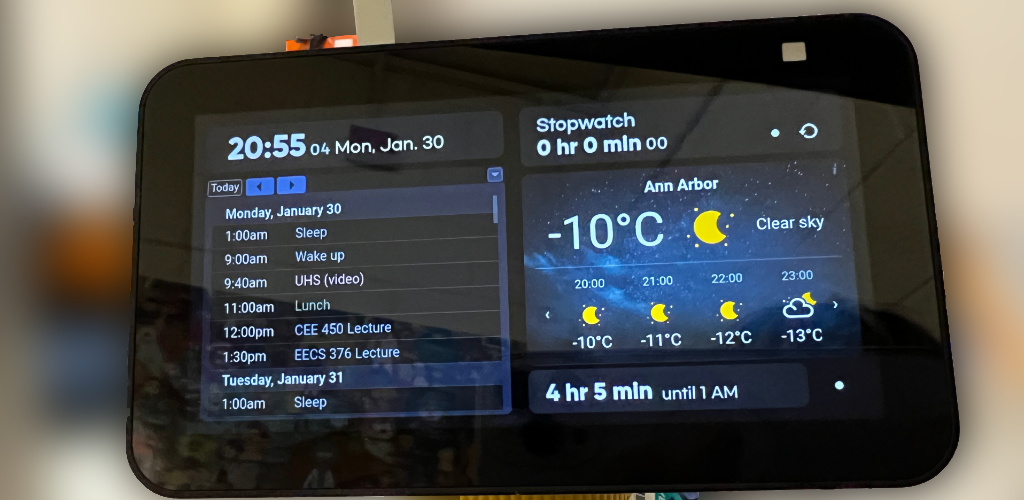
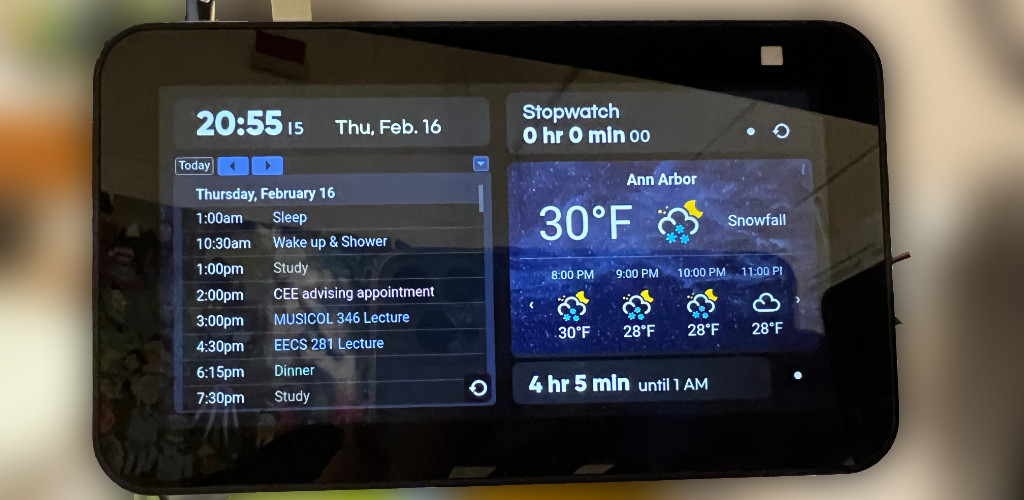
Update dashboard images

diff --git a/popups/slideshows/ss-dashboard.html b/popups/slideshows/ss-dashboard.html
@@ -1,0 +1,85 @@
+<!DOCTYPE html>
+<!--
+
+
+TASKS FOR SLIDESHOW
+- Change image/video source links
+- Change URL to the popup image
+   ㄴ Delete popup URL for videos
+- Change number of images, if necessary
+   ㄴ In this case, change the number of dots
+- Change captions
+
+WHAT IS THIS
+This is a template file for slideshows.
+Slideshows are meant to showcase more information about the project.
+
+HOW TO EMBED SLIDESHOWS
+<div class="slideshow-box">
+    <iframe class="slideshow" src="slideshows/ss-template.html" marginheight="0" marginwidth="0"></iframe>
+</div>
+
+CONTENT UPLOAD GUIDELINES
+- Aspect ratio should be 16:9
+   ㄴ 1920x1080, 1600x900, 1280x720, 960x540, 720x405
+- Total file size for the entire slideshow should be 1.5 MB or less.
+- Videos MUST be embedded from YouTube to reduce disk usage.
+   ㄴ When embedding videos, don't forget to do height="304".
+- The number of images/videos should not exceed 5.
+
+This slideshow template was created by Seung-Gu Lee.
+
+-->
+<html>
+    <head>
+        <title>Slideshow</title>
+        <meta charset="UTF-8">
+        <meta name="viewport" content="width=device-width, initial-scale=1.0">
+        <link rel="stylesheet" type="text/css" href="slideshow.css"/>
+        
+    </head>
+    <body>
+        <!-- Slideshow container -->
+        <div class="slideshow-container">
+
+          <!-- Full-width images with number and caption text -->
+          <div class="mySlides fade">
+            <img class="slideshow-img" src="images/dashboard_s1.jpg">
+            <div class="text">Screen 1</div>
+            <a href="javascript:openImagePopup('images/dashboard_s1.jpg')">
+                <div class='view-popup'></div>
+            </a>
+          </div>
+
+          <div class="mySlides fade">   
+            <img class="slideshow-img" src="images/dashboard_s2.jpg">
+            <div class="text">Screen 2</div>
+            <a href="javascript:openImagePopup('images/dashboard_s2.jpg')">
+                <div class='view-popup'></div>
+            </a>
+          </div>
+
+          <!-- VIDEO EXAMPLE
+          <div class="mySlides fade">
+            <iframe class='slideshow-img' height="304" src="https://www.youtube.com/embed/zlMismj3exs" frameborder="0" allowfullscreen></iframe>
+            <div class="text">Caption Three</div>
+          </div>
+          -->
+
+          <!-- Next and previous buttons -->
+          <a class="prev" onclick="plusSlides(-1)">&#10094;</a>
+          <a class="next" onclick="plusSlides(1)">&#10095;</a>
+        </div>
+
+        <!-- The dots/circles -->
+        <div style="text-align:center">
+          <span class="dot" onclick="currentSlide(1)"></span>
+          <span class="dot" onclick="currentSlide(2)"></span>
+        </div>
+        
+        
+        <script src="slideshow.js"></script>
+    </body>
+    
+    
+</html>

diff --git a/popups/popup-dashboard.html b/popups/popup-dashboard.html
@@ -12,13 +12,10 @@
                 Custom Dashboard
             </h1>
             <br/>
-
-            <img class='img-fg-popup' src='../images/projects/dashboard_fg.jpg'>
-            <!--            
+         
             <div class="slideshow-box">
-                <iframe class="slideshow" src="slideshows/ss-kamshub.html" marginheight="0" marginwidth="0"></iframe>
+                <iframe class="slideshow" src="slideshows/ss-dashboard.html" marginheight="0" marginwidth="0"></iframe>
             </div>
-            -->
             <br/>
             <p><b>Features:</b></p>
             <ul>
